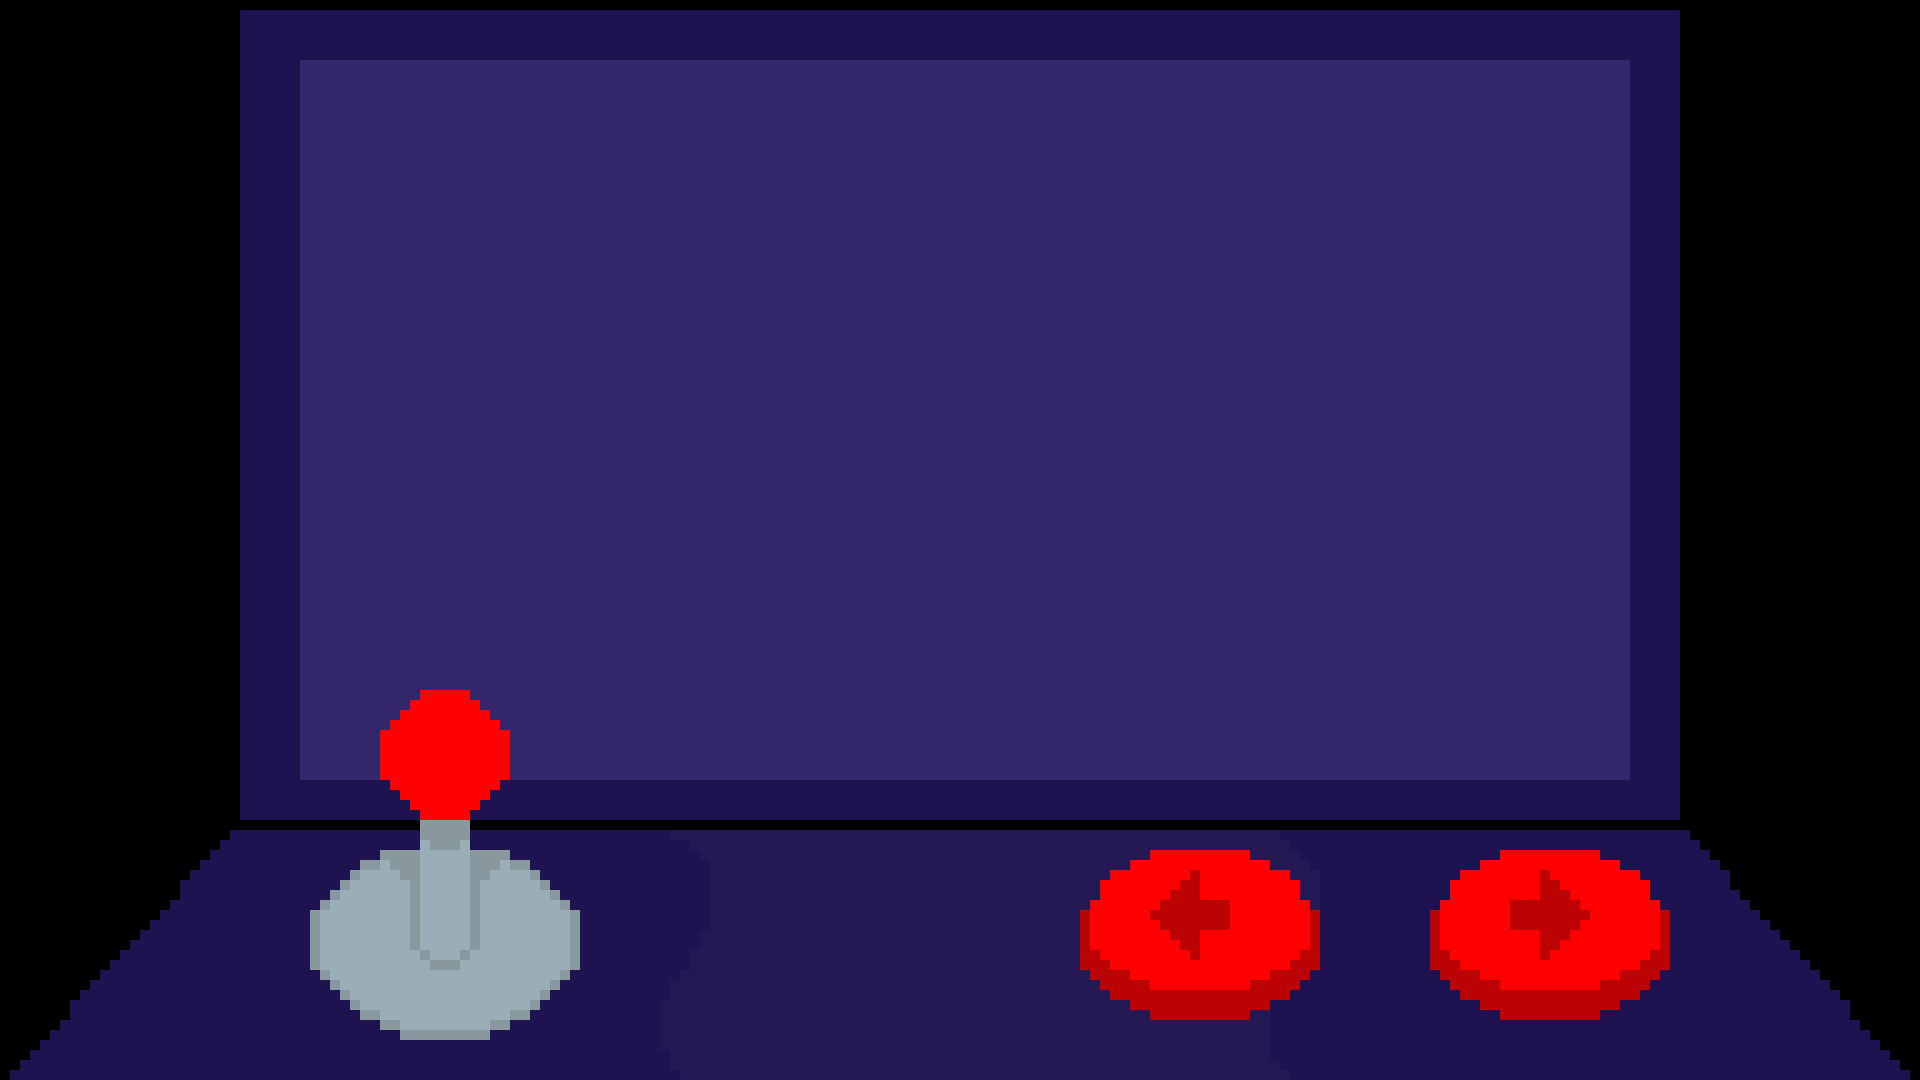
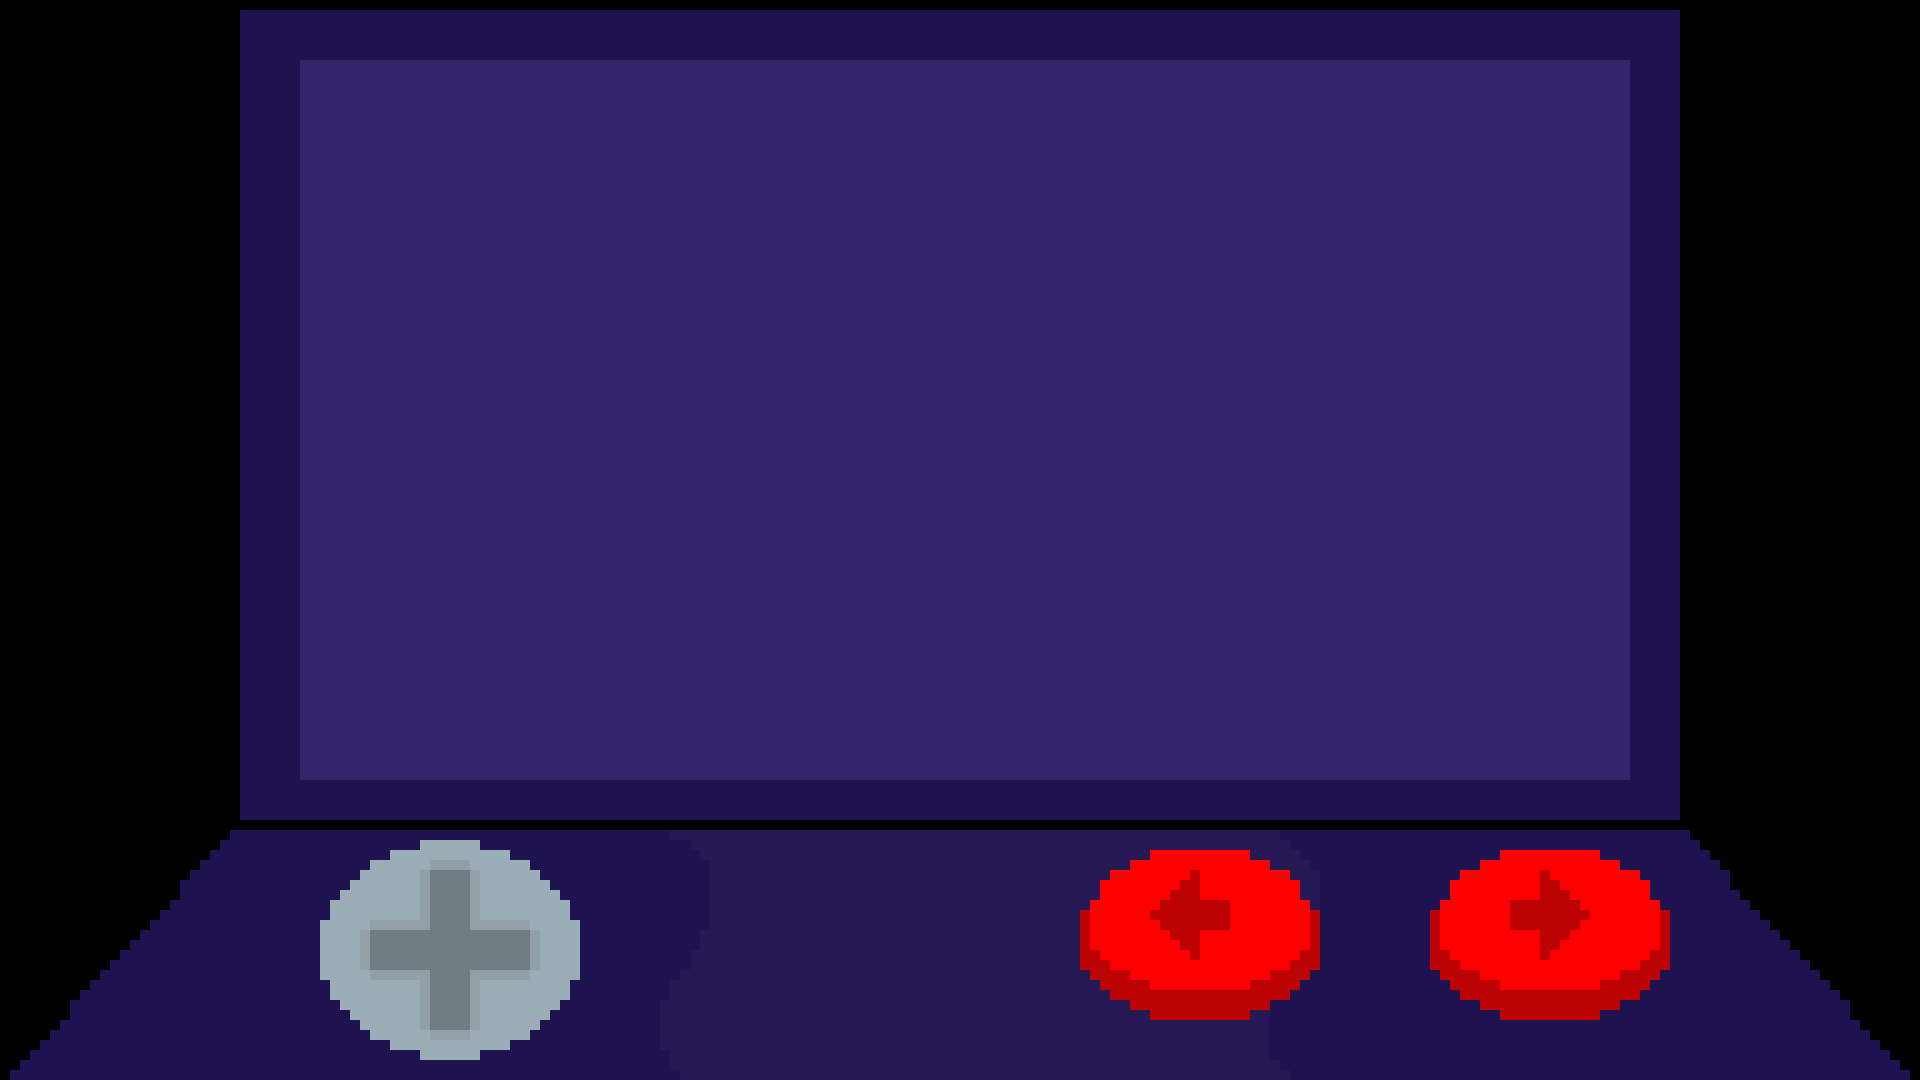
Pantalla y dpad

Changed region(s): [[0.1562, 0.6417, 0.3125, 1.0], [0.1562, 0.9167, 0.1875, 0.9472]]

diff --git a/pixelrun/pixelrun/src/App.css b/pixelrun/pixelrun/src/App.css
@@ -14,6 +14,7 @@ root{
   height: 100vh;
   width: 100%;
   display: flex;
+  flex-direction: column;
   margin: auto;
   justify-content: space-between;
   background-image: url('./arcade.png');
@@ -21,21 +22,31 @@ root{
   background-repeat: no-repeat;
   background-position: center;
 }
-
+.botones{
+  height: 25%;
+}
 .stick{
   height: 11vh;  /* Altura relativa al 10% de la altura de la pantalla */
   width: 6vw;   /* Ancho relativo al 15% del ancho de la pantalla */
-  margin-top: 64.5vh;  /* Margen superior relativo a la altura de la pantalla */
-  margin-right: 70vw; /* Margen izquierdo relativo al ancho de la pantalla */
+    /* Margen superior relativo a la altura de la pantalla */
+  margin-left: 24.4vw;
+  opacity: 0.5;
+  margin-bottom: 6.6vh; /* Margen izquierdo relativo al ancho de la pantalla */
   position: relative;
 }
 .bola{
   height: 11vh;  /* Altura relativa al 10% de la altura de la pantalla */
   width: 6vw;   /* Ancho relativo al 15% del ancho de la pantalla */
    /* Margen superior relativo a la altura de la pantalla */
-
-  background-color: red;
   border-radius: 50%;
+}
+.pantalla{
+  background-color: yellow;
+  width: 58.9vw;
+  height: 80vw;
+  margin-left: 20.75vw;
+  margin-top: 5vh;
+  margin-bottom: 8vh;
 }
 
 @media (max-width: 768px) {  /* Para pantallas más pequeñas como móviles */

diff --git a/pixelrun/pixelrun/src/components/stick.js b/pixelrun/pixelrun/src/components/stick.js
@@ -130,7 +130,7 @@ const Stick = () => {
           top: `${position.y}%`,
           transform: 'translate(-50%, -50%)',
           borderRadius: '50%',
-          backgroundColor: 'red', // Color de la bola
+          backgroundColor: 'grey', // Color de la bola
           cursor: 'pointer',
         }}
       />

diff --git a/pixelrun/pixelrun/src/App.js b/pixelrun/pixelrun/src/App.js
@@ -3,9 +3,9 @@ import Stick from './components/stick.js';
 import Screen from './components/screen.js';
 function App() {
   return (
+    
     <div class="index">
       <Screen pagina='2'/>
-      
       <div class="botones">
         <Stick/>
         <div class="botonAtras"></div>
